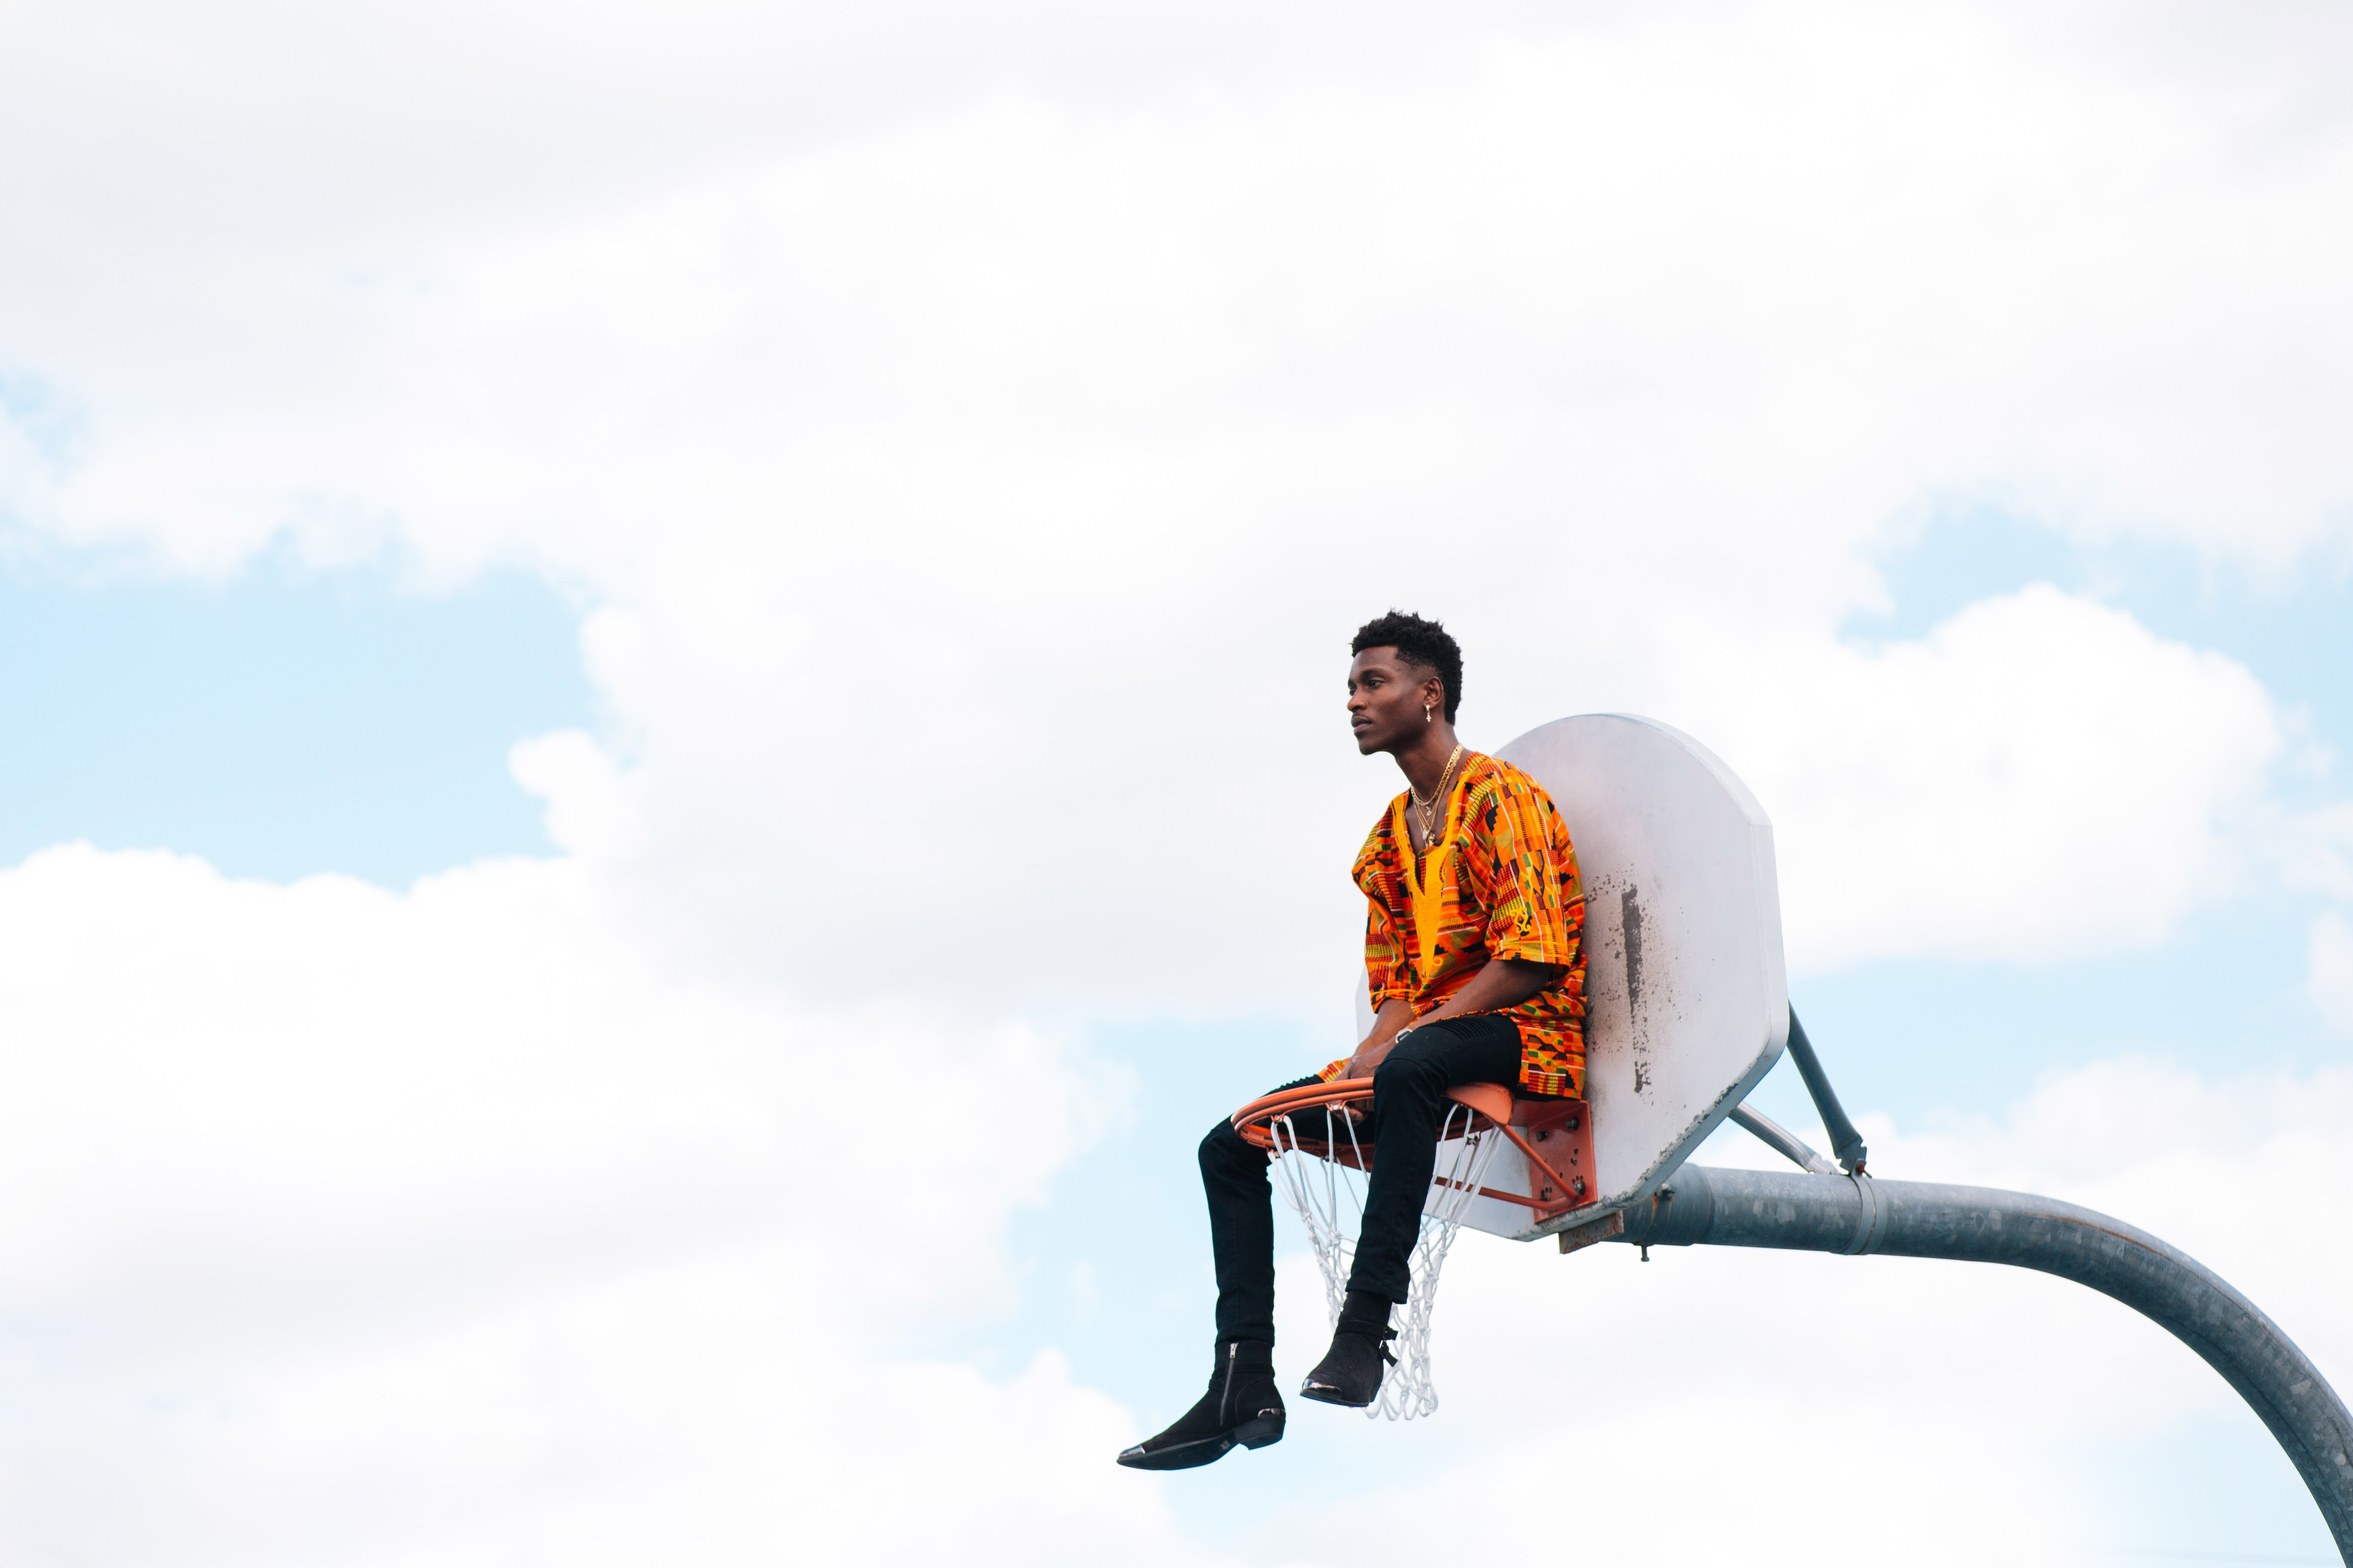
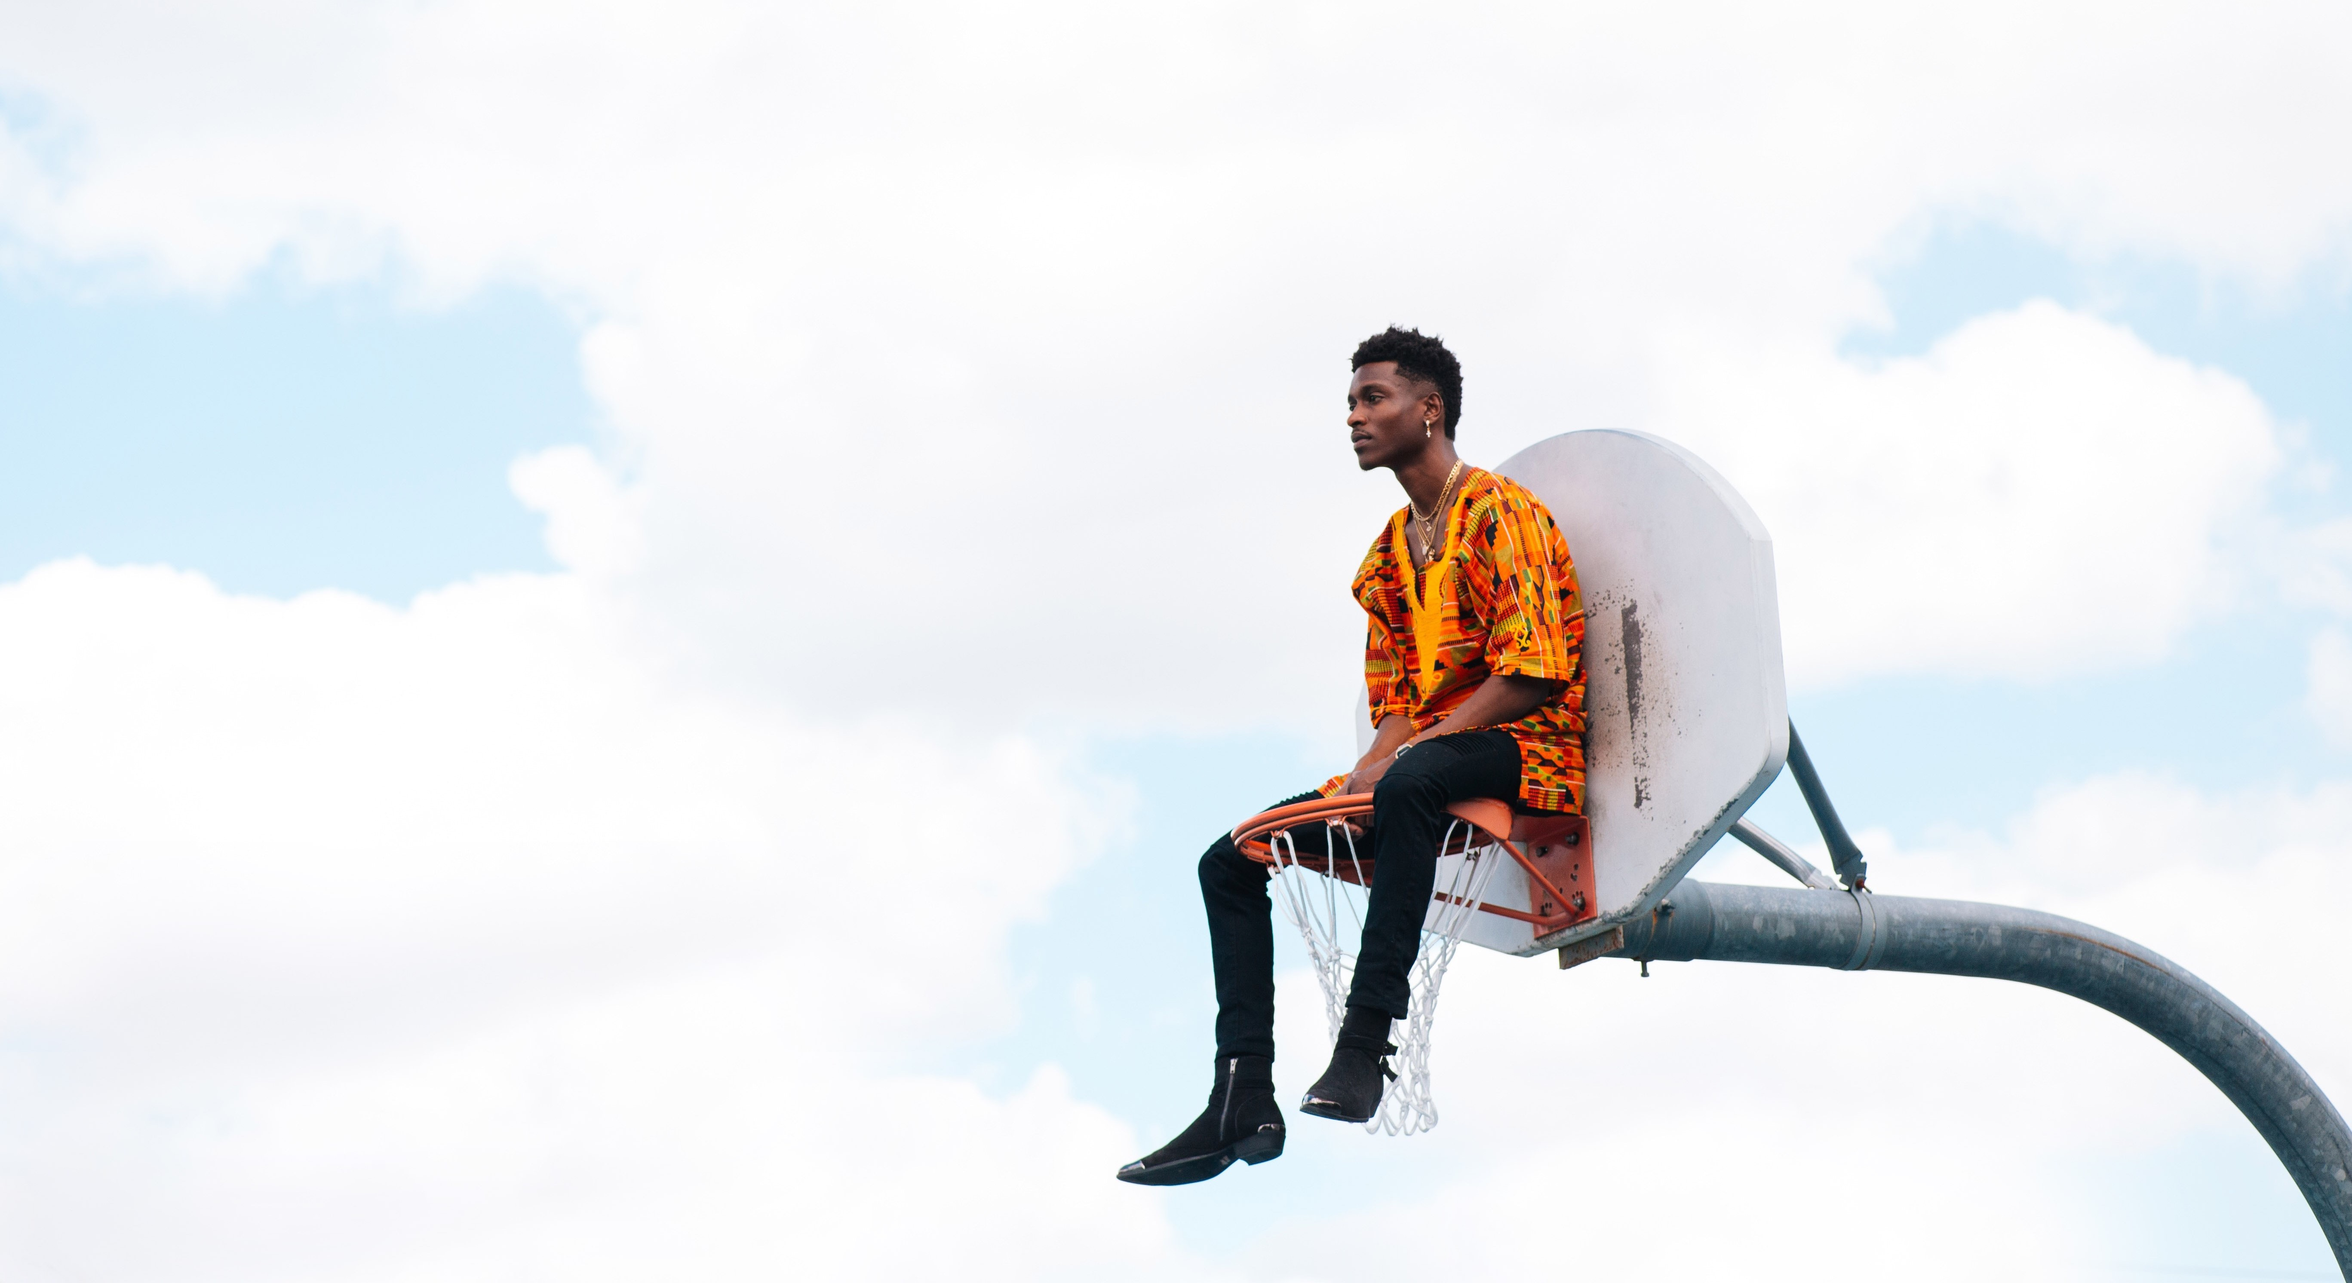
style: added background image and sizing

diff --git a/src/components/Products.jsx b/src/components/Products.jsx
@@ -32,23 +32,25 @@ function Products() {
     } else increasePrice(eachProduct.price);
   }
 
-  let displayProducts = [1,2,3,415,16,17,18,19]
+  let displayProducts = [1,2,3,4, 15,16,17,18,19]
   const filteredProducts = products.filter((obj) => displayProducts.includes(obj.id));
 
   return (
-    <div className="flex flex-wrap">
+    <div className="ml-20 justify-center flex flex-wrap">
       {filteredProducts.map((eachProduct) => (
-        <div className=" m-5 p-5 w-72 bg-sky-300">
-          <img className=" h-40" src={eachProduct.image} alt="" />
+        <div className="flex flex-col justify-around m-5 p-5 w-72 border-2 rounded-2xl">
+          <img className="self-center w-32 h-40" src={eachProduct.image} alt="" />
           <ul>
-            <li> name: {eachProduct.title}</li>
-            <li> price: ${eachProduct.price}</li>
-            <h3
-              className="text-xl font-bold"
-              onClick={() => addToCart(eachProduct)}
-            >
-              Add to Cart
-            </h3>
+            <li className="text-sm">{eachProduct.title}</li>
+            <div className="flex justify-between">
+              <li className="text-xl font-bold">${eachProduct.price}</li>
+              <h3
+                className="font-bold mt-1"
+                onClick={() => addToCart(eachProduct)}
+              >
+                Add to Cart
+              </h3>
+            </div>
           </ul>
         </div>
       ))}

diff --git a/src/components/Navbar.jsx b/src/components/Navbar.jsx
@@ -1,10 +1,13 @@
 import React from "react";
 import { Link } from "react-router-dom";
 
+// style={{ color: "#d2effd" }}
+// style={{ color: "#e69228" }}
+
 function Navbar() {
   return (
-    <ul className="flex items-center justify-around h-28 border-2">
-      <li className="text-5xl font-extrabold">
+    <ul className="flex items-center justify-around h-28 border-2" >
+      <li className="text-5xl font-extrabold" >
         <Link to="/home">FakeShop</Link>
       </li>
       <div className="flex text-2xl font-bold">
@@ -15,7 +18,7 @@ function Navbar() {
           <Link to="/products">Products</Link>
         </li>
         <li className="ml-16">
-          <Link to="/products">Contact</Link>
+          <Link to="/contact">Contact</Link>
         </li>
         <li className="ml-16">
           <Link to="/cart">Cart</Link>

diff --git a/src/App.jsx b/src/App.jsx
@@ -6,6 +6,7 @@ import "./App.css";
 import Navbar from "./components/Navbar";
 import Home from "./components/Home";
 import Products from "./components/Products";
+import Contact from "./components/Contact";
 import Cart from "./components/Cart";
 
 function App() {
@@ -36,12 +37,13 @@ function App() {
     <BrowserRouter>
       <Navbar />
       <Routes>
-        <Route path="/" element={<Home />} />
+        <Route path="/" element={<Home  />} />
         <Route path="/home" element={<Home />} />
         <Route
           path="/products"
           element={<Products onPurchase={addItem} data={product} />}
         />
+           <Route path="/contact" element={<Contact />} />
         <Route
           path="/cart"
           element={

diff --git a/src/components/Home.jsx b/src/components/Home.jsx
@@ -1,9 +1,8 @@
 import React from "react";
-import { useState } from "react";
+import backgroundImage from '../img/bg.jpg';
 
 function Home() {
-  return <div className="background-image: url('.img\bg.jpg');">We Are Home</div>;
-  
+  return <div className="bg-cover bg-center h-screen" style={{ backgroundImage: `url(${backgroundImage})` }}> We are home </div>;
 }
 
 export default Home;
